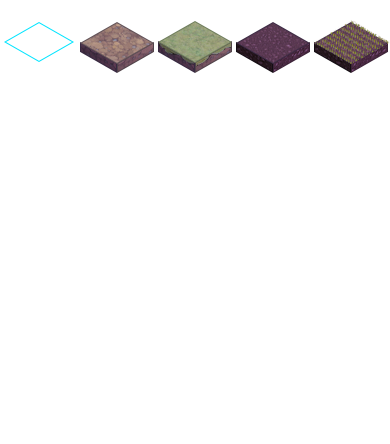
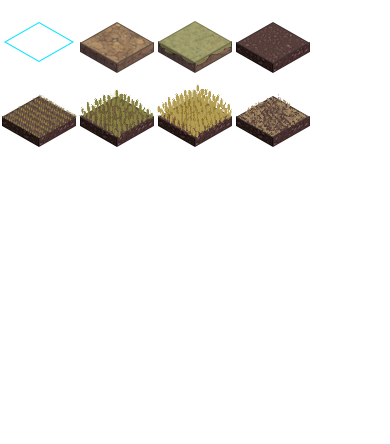
Harvest

diff --git a/public/js/IsoWorld.js b/public/js/IsoWorld.js
@@ -70,8 +70,8 @@ class IsoWorld {
 
     this.context = this.canvas.getContext('2d');
 
-    // this.clearViewport('#1A1B1F');
-    // this.showLoadingPlaceholder();
+    this.clearViewport('#1A1B1F');
+    this.showLoadingPlaceholder();
 
     this.tileSheetImg = await this.loadImage(tileSheetURI);
 
@@ -96,18 +96,12 @@ class IsoWorld {
 
   passGrowingSeason() {
     setInterval(() => {
-      this.harvest = 0;
       this.plots.filter((plot) => plot.hasPlant).forEach((plot) => {
-        this.harvestPlant(plot.plant);
         plot.plant.passGrowingSeason();
         plot.changeSkin(plot.plant.skin);
       });
-      this.year += 1;
+      this.year += 0.25;
     }, 5000);
-  }
-
-  harvestPlant(plant) {
-    this.harvest += plant.harvest;
   }
 
   clearViewport(color) {
@@ -139,14 +133,14 @@ class IsoWorld {
   buildMap() {
     const map = new Array(this.numRows).fill(new Array(this.numCols).fill(''));
     for (let x = 0; x < map.length; x++) {
-      map[x] = map[x].map((el, y) => new Plot(1, x, y));
+      map[x] = map[x].map((el, y) => new Plot(Math.ceil(Math.random() * 2), x, y));
     }
     this.tileMap = map;
     this.plots = map.flat();
   }
 
   mainLoop() {
-    // this.clearViewport('#1A1B1F');
+    this.clearViewport('#1A1B1F');
     this.draw();
 
     window.requestAnimationFrame(() => { this.mainLoop(); });
@@ -278,8 +272,15 @@ class IsoWorld {
   }
 
   onMouseDown(e) {
-    this.tileMap[this.mouseTileX][this.mouseTileY].skin += 1;
     const plot = this.plots.find((plot) => plot.x === this.mouseTileX && plot.y === this.mouseTileY);
-    plot.setPlant(new Plant());
+    if (plot.skin === 2) {
+      plot.skin = 3;
+    } else if (plot.skin === 3) {
+      plot.setPlant(new Plant());
+    } else if (plot.skin === 7) {
+      const plotHarvest = plot.harvestPlant();
+      this.harvest += plotHarvest;
+      console.log(this.harvest);
+    }
   }
 }

diff --git a/public/js/forms.js b/public/js/forms.js
@@ -1,5 +1,6 @@
 function loadMenu(container) {
   container.innerHTML = '';
+  container.className = 'container neon-bg';
   const formContainer = document.createElement('div');
   formContainer.className = 'form-container';
   formContainer.innerHTML = `
@@ -40,6 +41,7 @@ function loadMenu(container) {
 
 function loadRegisterForm(container) {
   container.innerHTML = '';
+  container.className = 'container neon-bg';
   const formContainer = document.createElement('div');
   formContainer.className = 'form-container';
   const registerForm = document.createElement('form');
@@ -113,6 +115,7 @@ function loadRegisterForm(container) {
 
 function loadLoginForm(container) {
   container.innerHTML = '';
+  container.className = 'container neon-bg';
   const formContainer = document.createElement('div');
   formContainer.className = 'form-container';
   const loginForm = document.createElement('form');

diff --git a/public/js/Plant.js b/public/js/Plant.js
@@ -4,20 +4,18 @@ class Plant {
     this.harvest = 0;
     this.isAlive = true;
     this.harvestRange = [200, 350];
-    this.skin = 4;
+    this.skin = 5;
   }
 
   passGrowingSeason() {
-    this.age += 1;
-    this.setHarvest();
-    // if (this.age >= 6 && this.age <= 25) {
-    //   this.setHarvest();
-    // }
-    if (this.age >= 26) {
-      this.isAlive = false;
-      this.harvest = 0;
+    this.age += 0.25;
+    if (this.age >= 0.5 && this.age < 1 && this.isAlive) {
+      this.skin = 6;
     }
-    return this.harvest;
+    if (this.age >= 1 && this.isAlive && this.harvest === 0) {
+      this.skin = 7;
+      this.setHarvest();
+    }
   }
 
   setHarvest() {

diff --git a/public/js/Plot.js b/public/js/Plot.js
@@ -13,6 +13,15 @@ class Plot {
     this.skin = this.plant.skin;
   }
 
+  harvestPlant() {
+    const { harvest } = this.plant;
+    this.plant.isAlive = false;
+    this.plant.skin = 8;
+    this.plant.harvest = 0;
+    this.changeSkin(this.plant.skin);
+    return harvest;
+  }
+
   changeSkin(skin) {
     this.skin = skin;
   }

diff --git a/src/views/Layout.jsx b/src/views/Layout.jsx
@@ -18,9 +18,7 @@ module.exports = function Layout({ children }) {
         <script defer src="/js/application.js" />
       </head>
       <body>
-        <div className="neon-bg">
-          {children}
-        </div>
+        {children}
       </body>
     </html>
   );

diff --git a/public/js/common.js b/public/js/common.js
@@ -1,5 +1,6 @@
 function startNewGame(container) {
   container.innerHTML = '';
+  container.className = 'container';
   const canvas = document.createElement('canvas');
   canvas.id = 'isometric-canvas';
   container.appendChild(canvas);

diff --git a/public/css/style.css b/public/css/style.css
@@ -22,8 +22,6 @@ body {
 }
 
 .neon-bg {
-  width: 100%;
-  height: 100%;
   background-image: url('../images/neon-bg.png');
   background-position: center center;
   background-repeat: no-repeat;
